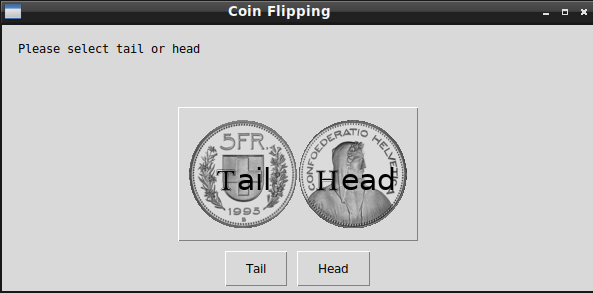
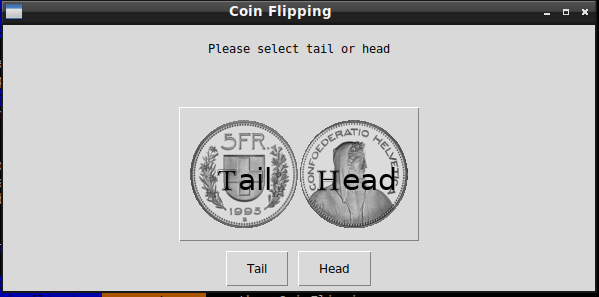
Center some text

diff --git a/CoinFlipping.py b/CoinFlipping.py
@@ -22,9 +22,10 @@ def head():
     if top2 == [1]:
 
         coinChoice = ["Replay", "Quit"]
-
+        message = "You Win !\n\n\nThe result is head"
+        msgCenter = message.center(100)
         replay = buttonbox(image=easyHead, choices=coinChoice, title="Coin Flipping",
-                           msg="You Win !\n\nThe result is head")
+                           msg=msgCenter)
         if replay == "Replay":
             begin()
         else:
@@ -33,8 +34,10 @@ def head():
 
     else:
         coinChoice = ["Replay", "Quit"]
+        message = "You loose !\n\n\nThe result is tail"
+        msgCenter = message.center(100)
         replay = buttonbox(image=easyTail, choices=coinChoice, title="Coin Flipping",
-                           msg="You loose !\n\nThe result is tail")
+                           msg=msgCenter)
         if replay == "Replay":
             begin()
         else:
@@ -52,9 +55,10 @@ def tail():
     if top2 == [1]:
 
         coinChoice = ["Replay", "Quit"]
-
+        message = "You Win !\n\n\nThe result is tail"
+        msgCenter = message.center(100)
         replay = buttonbox(image=easyTail, choices=coinChoice, title="Coin Flipping",
-                           msg="You Win !\n\nThe result is tail")
+                           msg=msgCenter)
         if replay == "Replay":
             begin()
         else:
@@ -63,8 +67,10 @@ def tail():
 
     else:
         coinChoice = ["Replay", "Quit"]
+        message = "You loose !\n\n\nThe result is head"
+        msgCenter = message.center(100)
         replay = buttonbox(image=easyHead, choices=coinChoice, title="Coin Flipping",
-                           msg="You loose !\n\nThe result is head")
+                           msg=msgCenter)
         if replay == "Replay":
             begin()
         else:
@@ -73,8 +79,10 @@ def tail():
 
 def begin():
     yourChoice = ["Tail","Head"]
+    message = "Please select tail or head"
+    msgCenter = message.center(80)
     play = buttonbox(image=fullIMG, choices=yourChoice, title="Coin Flipping",
-                       msg="Please select tail or head")
+                       msg=msgCenter)
     if play == "Tail":
         tail()
     elif play == "Head":
